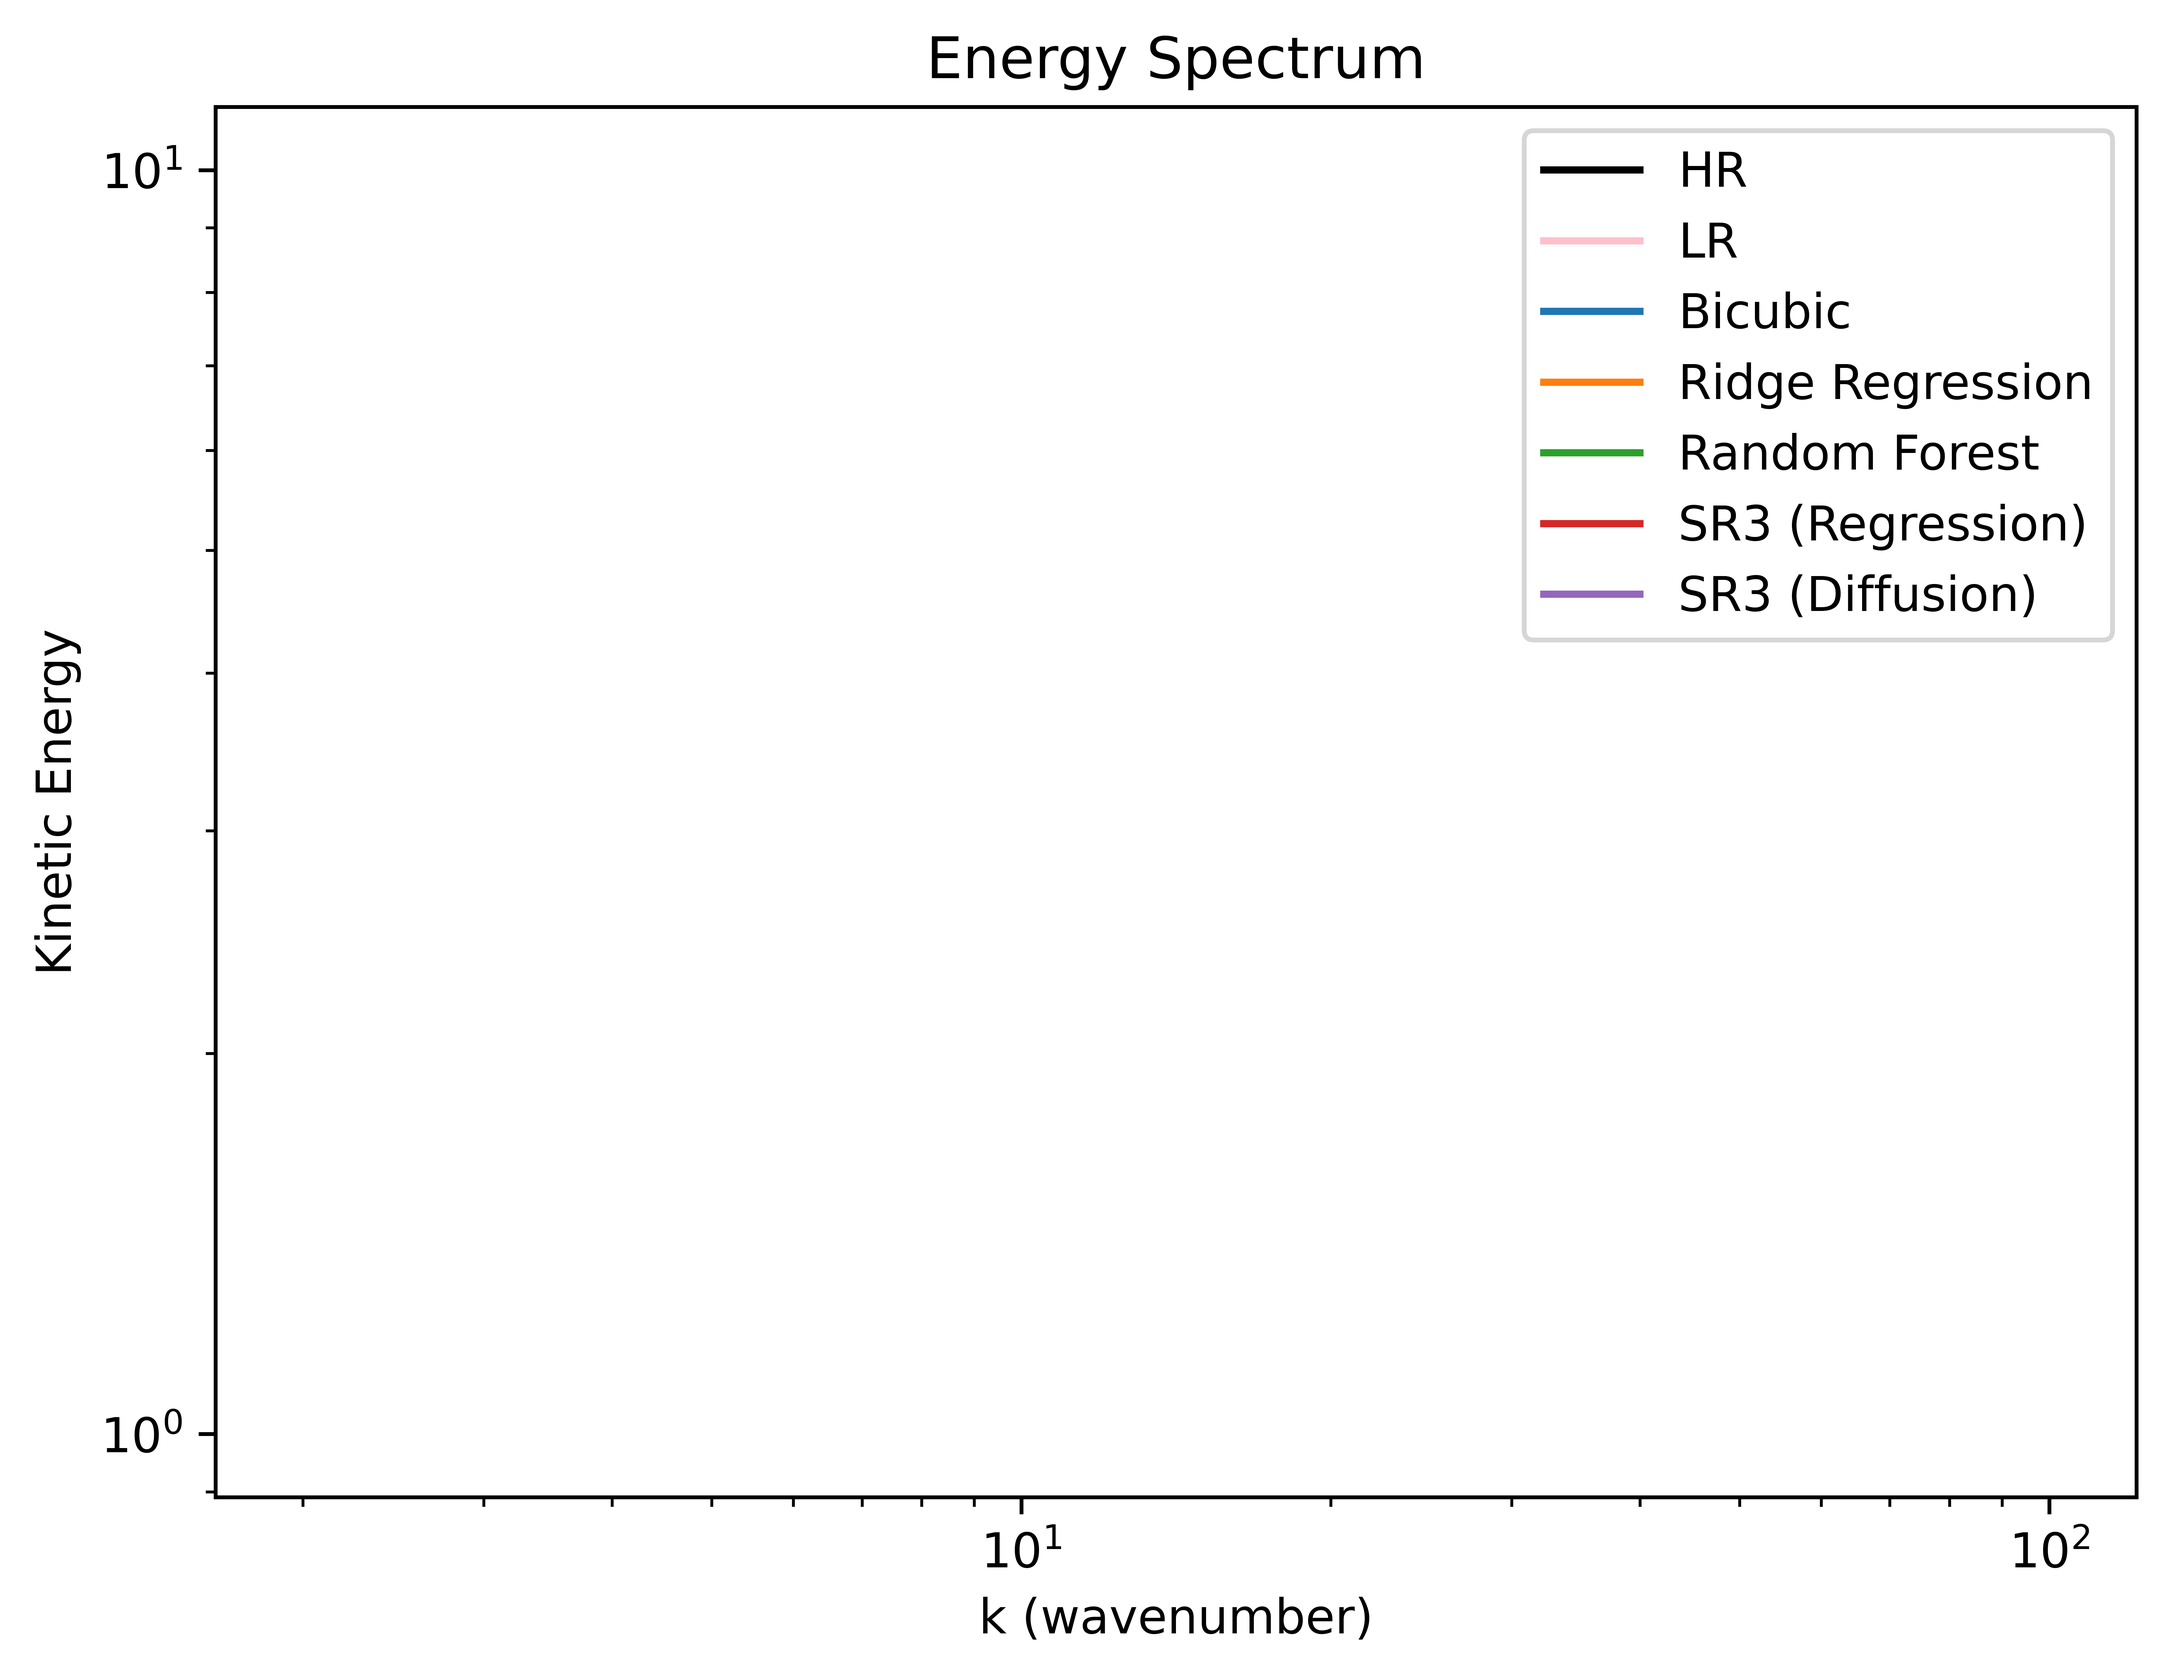
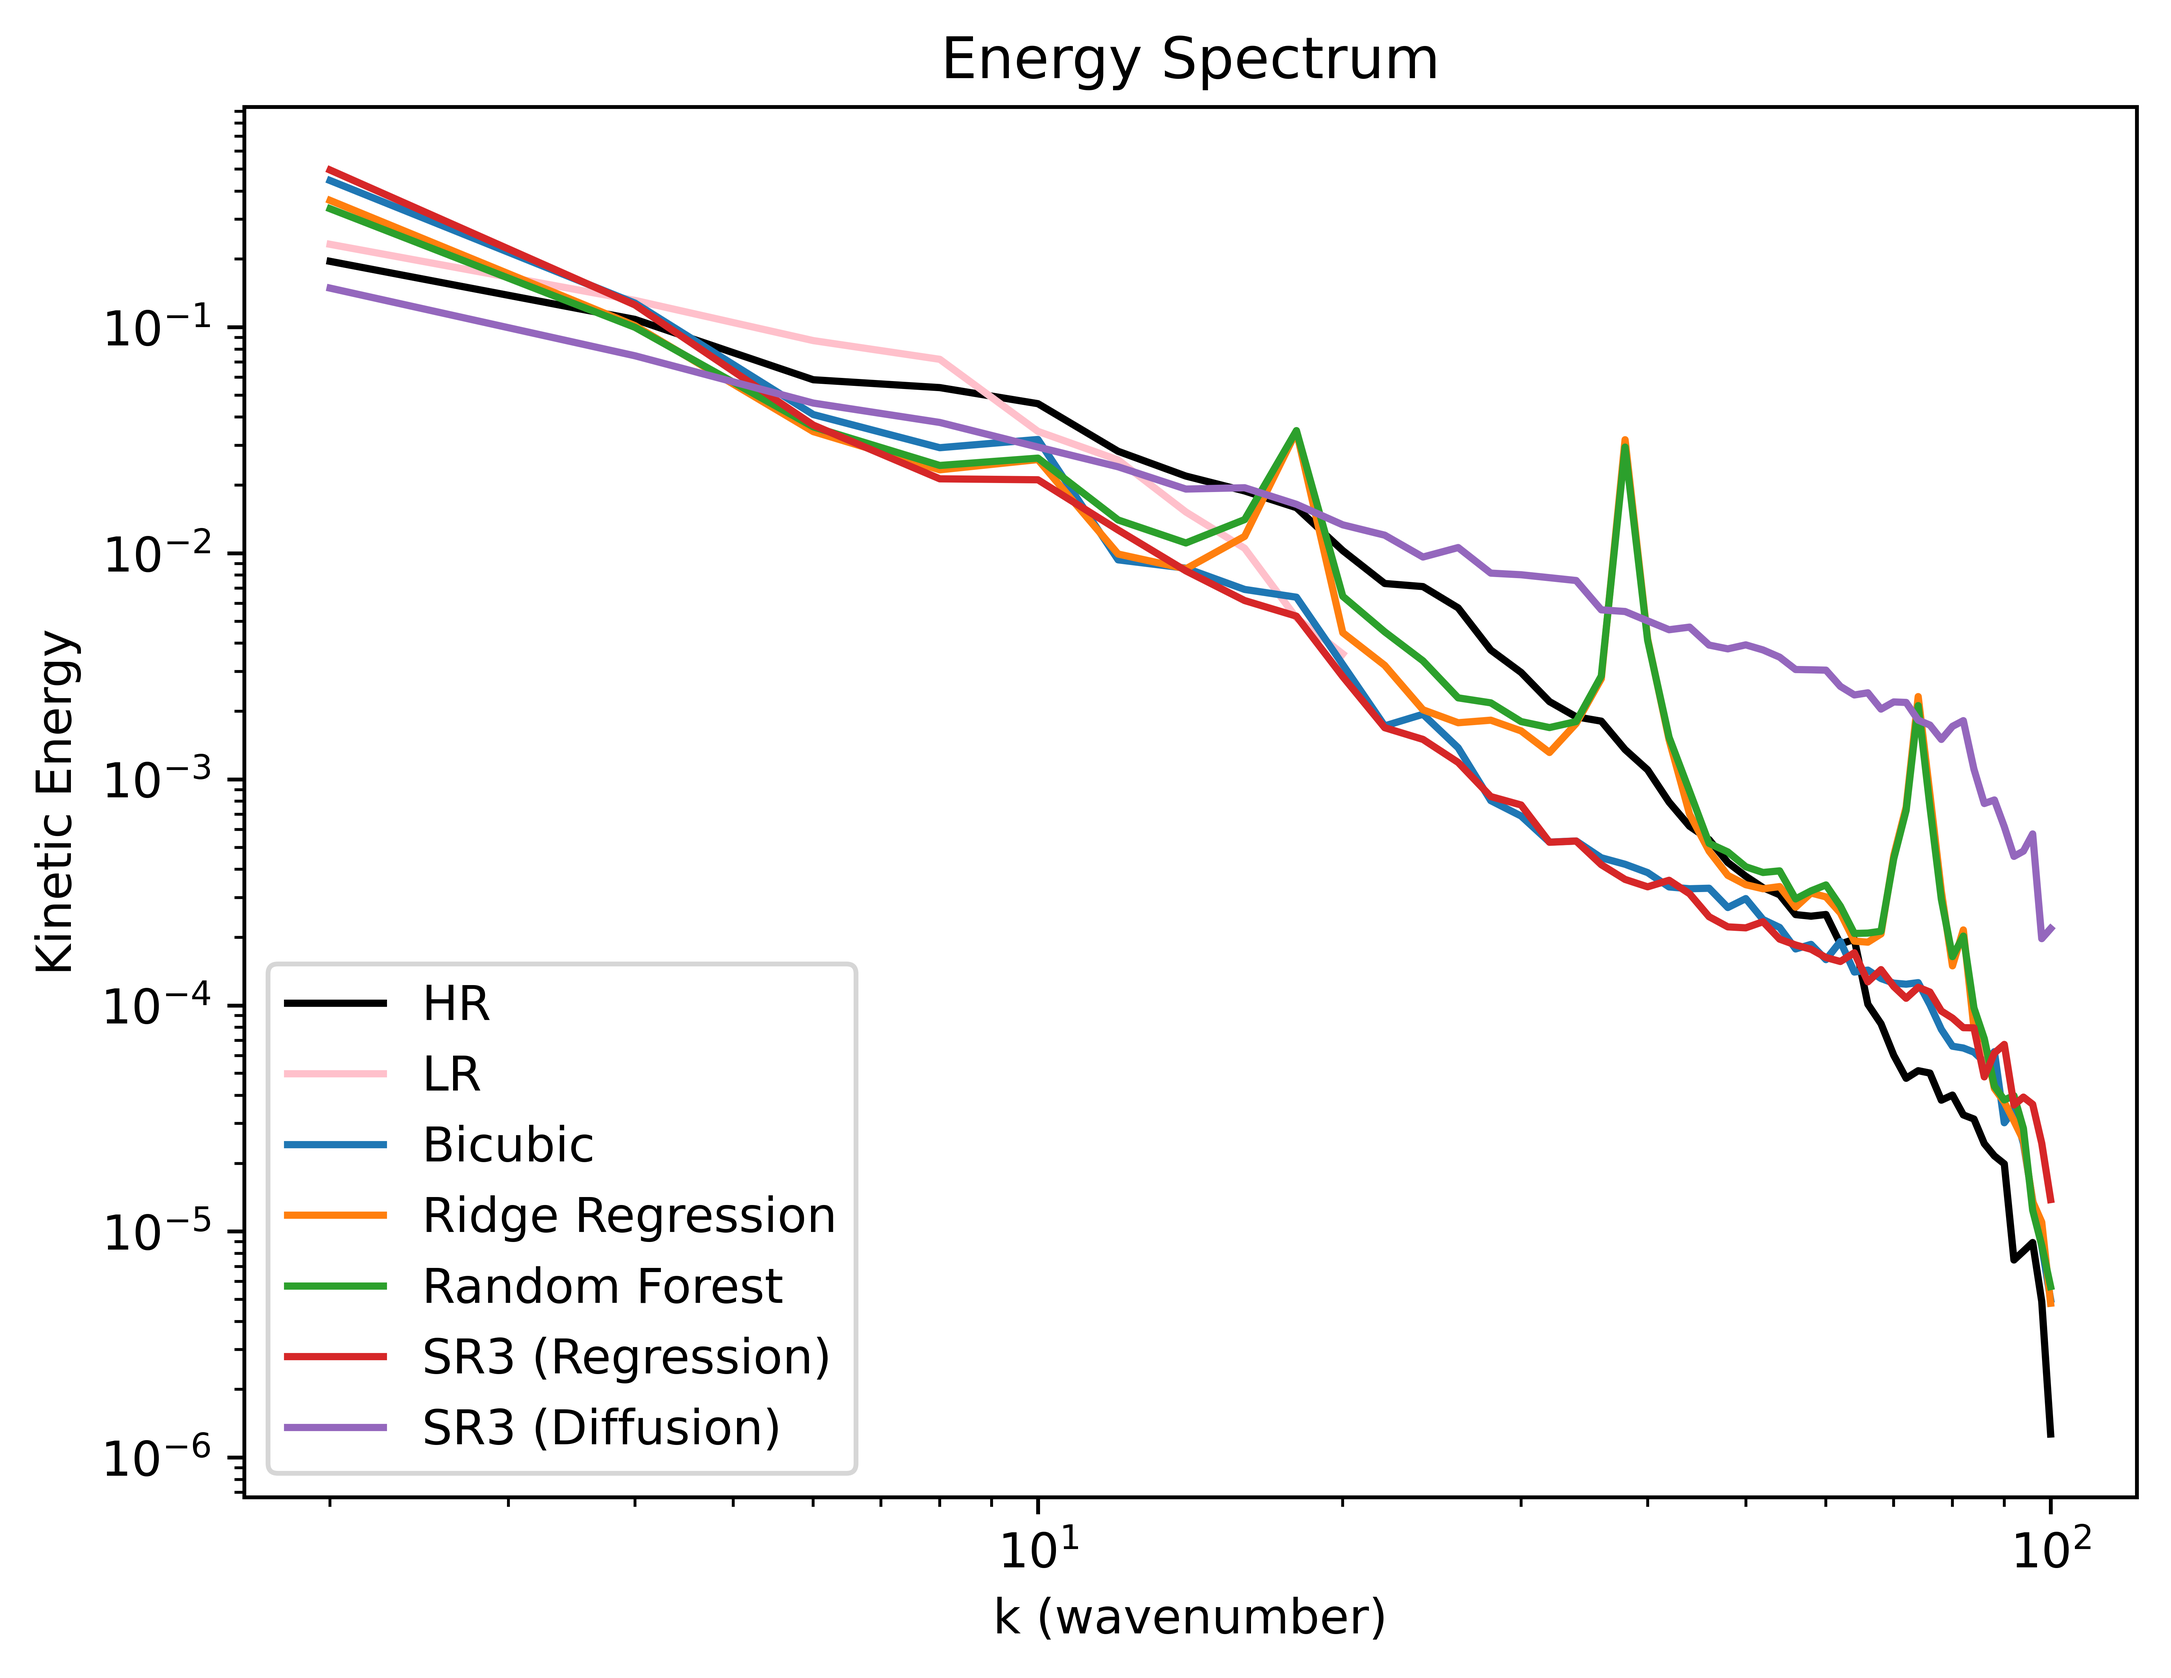
more normalization edits

diff --git a/kinetic_energy_norm.py b/kinetic_energy_norm.py
@@ -150,7 +150,8 @@ def plot_energy_spectra(fname="wind_spectrum_norm"):
         E = np.mean(Energy_Spectrum[model]['y'], axis=0) / 10000
 
         # add normalization
-        totalEnergy = ig.trapezoid(E,k)
+        totalEnergy = ig.trapezoid(np.flip(E), np.flip(k))
+        print("\nTotal Energies: ")
         print(totalEnergy)
         plt.loglog(k, E/totalEnergy, color=colors[model], label=model)
 
